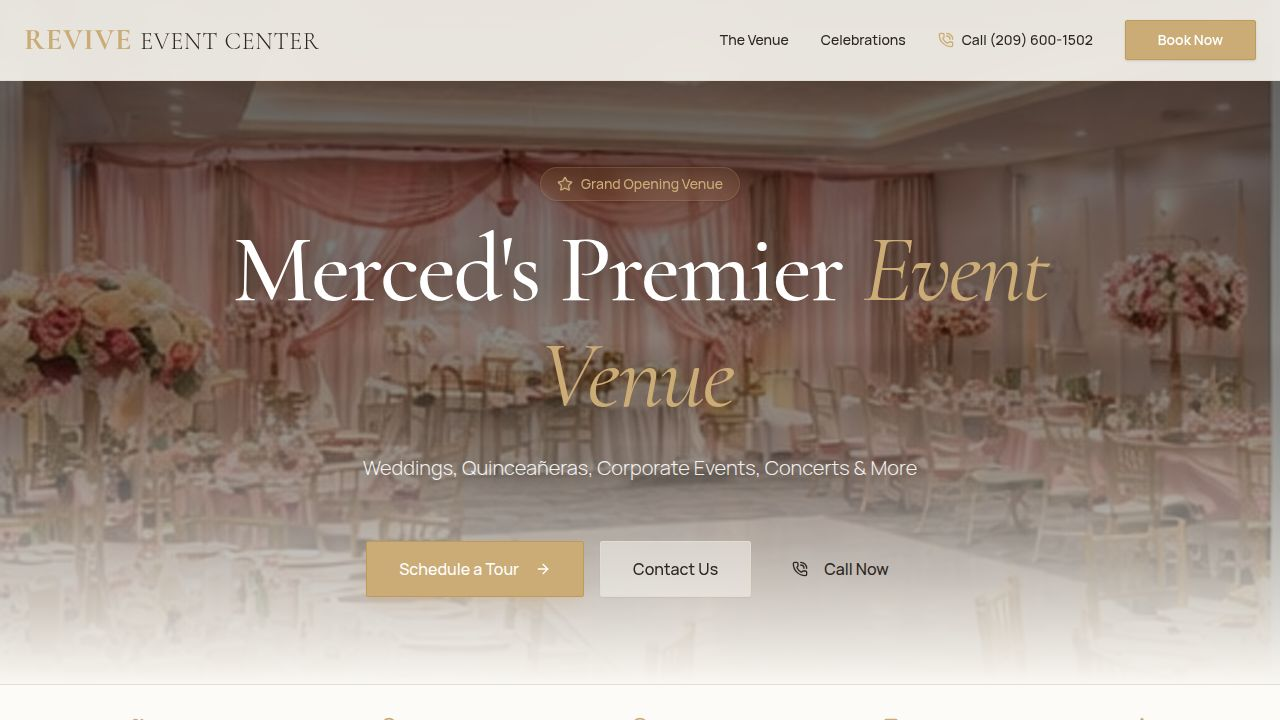
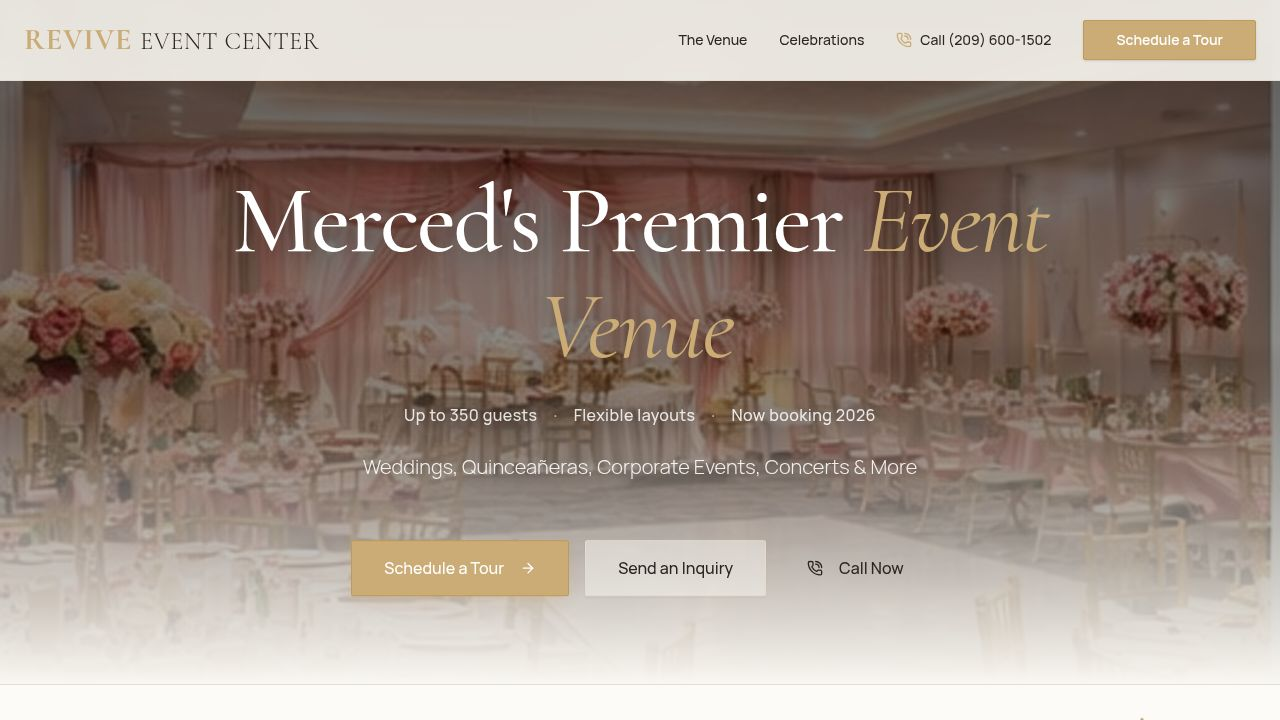
Conversion polish: standardize CTAs, add hero capacity line, booking reassurance
Task #9 (in response to a third-party site audit). All four bounded
changes implemented in artifacts/revive-event-center/src/pages/Home.tsx:

1. CTA standardization sweep — every booking-related button on the
   page now reads either "Schedule a Tour" (gold primary, opens
   venuesos.com/schedule-tour in a new tab) or "Send an Inquiry"
   (outline secondary, opens venuesos.com/inquiry in a new tab).
   Replaced: "Book Now" (header), "Book a Walkthrough" + "Explore
   Celebrations" (See the Scale section), "Inquire About Your Event"
   (Celebrations header), "Check Date Availability" (Now Booking
   2026), "Book a Tour" + "Start Your Inquiry" (booking card inner
   labels), "Inquire Now" (footer Quick Links), "Schedule Tour" +
   "Contact Us" (mobile sticky bar). Hero "Contact Us" → "Send an
   Inquiry" (was already pointing at the inquiry URL).

2. Hero capacity line — added a single line between the headline and
   the supporting tagline reading "Up to 350 guests · Flexible
   layouts · Now booking 2026" with gold-accented · separators
   (aria-hidden on the dots).

3. Booking section reassurance — added a centered gold-tinted line
   above the two booking cards reading "Takes 30 seconds. No
   commitment. Lock in your date before it's gone."

4. Trust strip copy — "All-Inclusive Packages Available" rephrased
   to active voice: "All-inclusive pricing — one number, no
   surprises." Same icon and slot.

Verification: typecheck clean, full e2e Playwright test passed all
[…]

diff --git a/artifacts/revive-event-center/src/pages/Home.tsx b/artifacts/revive-event-center/src/pages/Home.tsx
@@ -41,8 +41,8 @@ export default function Home() {
               <PhoneCall className="w-4 h-4 text-primary" /> {PHONE_DISPLAY}
             </a>
             <Button asChild size="lg" className="bg-primary text-primary-foreground hover:bg-primary/90 font-semibold shadow-sm">
-              <a href="#book" data-testid="link-nav-tour">
-                Book Now
+              <a href={VENUESOS_TOUR} target="_blank" rel="noopener noreferrer" data-testid="link-nav-tour">
+                Schedule a Tour
               </a>
             </Button>
           </nav>
@@ -68,6 +68,14 @@ export default function Home() {
                 Merced's Premier <span className="text-primary italic pr-2">Event Venue</span>
               </motion.h1>
               
+              <motion.div variants={fadeInUp} className="flex items-center justify-center gap-3 md:gap-4 text-sm md:text-base text-white/85 font-medium tracking-wide flex-wrap [text-shadow:0_1px_20px_rgba(0,0,0,0.5)]">
+                <span>Up to 350 guests</span>
+                <span className="text-primary" aria-hidden="true">·</span>
+                <span>Flexible layouts</span>
+                <span className="text-primary" aria-hidden="true">·</span>
+                <span>Now booking 2026</span>
+              </motion.div>
+
               <motion.p variants={fadeInUp} className="text-lg md:text-xl text-white/90 max-w-2xl mx-auto font-light leading-relaxed [text-shadow:0_1px_20px_rgba(0,0,0,0.5)]">
                 Weddings, Quinceañeras, Corporate Events, Concerts &amp; More
               </motion.p>
@@ -80,7 +88,7 @@ export default function Home() {
                 </Button>
                 <Button asChild variant="outline" size="lg" className="w-full sm:w-auto text-base h-14 px-8 border-border bg-background/50 backdrop-blur-sm hover:bg-background/80 hover:text-primary transition-all">
                   <a href={VENUESOS_INQUIRY} target="_blank" rel="noopener noreferrer">
-                    Contact Us
+                    Send an Inquiry
                   </a>
                 </Button>
                 <Button asChild variant="ghost" size="lg" className="w-full sm:w-auto text-base h-14 px-6 hover:bg-background/60 hover:text-primary transition-all">
@@ -103,7 +111,7 @@ export default function Home() {
                 { label: "Central Merced Location", icon: MapPin },
                 { label: "Tables & Chairs Included", icon: CheckCircle2 },
                 { label: "Kitchen & Bar Access", icon: GlassWater },
-                { label: "All-Inclusive Packages Available", icon: Star },
+                { label: "All-inclusive pricing — one number, no surprises", icon: Star },
               ].map(({ label, icon: Icon }) => (
                 <li key={label} className="flex flex-col items-center justify-center gap-2">
                   <Icon className="w-5 h-5 text-primary" />
@@ -180,12 +188,12 @@ export default function Home() {
               </p>
               <div className="flex flex-col sm:flex-row gap-4 pt-2">
                 <Button asChild size="lg" className="bg-primary text-primary-foreground hover:bg-primary/90 h-14 px-8 shadow-lg">
-                  <a href="#book">
-                    Book a Walkthrough <ArrowRight className="ml-2 w-4 h-4" />
+                  <a href={VENUESOS_TOUR} target="_blank" rel="noopener noreferrer">
+                    Schedule a Tour <ArrowRight className="ml-2 w-4 h-4" />
                   </a>
                 </Button>
                 <Button asChild variant="outline" size="lg" className="h-14 px-8 bg-background/10 border-white/40 text-white hover:bg-background/20 hover:text-white backdrop-blur-sm">
-                  <a href="#celebrations">Explore Celebrations</a>
+                  <a href={VENUESOS_INQUIRY} target="_blank" rel="noopener noreferrer">Send an Inquiry</a>
                 </Button>
               </div>
             </motion.div>
@@ -201,7 +209,7 @@ export default function Home() {
                 <p className="text-lg text-muted-foreground">From the most sacred vows to the wildest corporate galas, our space transforms to fit your vision.</p>
               </div>
               <Button asChild variant="outline" className="shrink-0 hidden md:flex">
-                <a href={VENUESOS_INQUIRY} target="_blank" rel="noopener noreferrer">Inquire About Your Event</a>
+                <a href={VENUESOS_INQUIRY} target="_blank" rel="noopener noreferrer">Send an Inquiry</a>
               </Button>
             </div>
 
@@ -280,8 +288,8 @@ export default function Home() {
                 </motion.p>
                 <motion.div variants={fadeInUp} className="flex flex-col sm:flex-row gap-4 pt-2">
                   <Button asChild size="lg" className="bg-primary text-primary-foreground hover:bg-primary/90 h-14 px-8 shadow-lg shadow-primary/20">
-                    <a href="#book">
-                      Check Date Availability <ArrowRight className="ml-2 w-4 h-4" />
+                    <a href={VENUESOS_TOUR} target="_blank" rel="noopener noreferrer">
+                      Schedule a Tour <ArrowRight className="ml-2 w-4 h-4" />
                     </a>
                   </Button>
                   <Button asChild variant="outline" size="lg" className="h-14 px-8">
@@ -349,6 +357,9 @@ export default function Home() {
             <div className="text-center max-w-3xl mx-auto mb-12">
               <h2 className="text-4xl md:text-5xl font-serif font-medium mb-6">Ready to Revive Your Event?</h2>
               <p className="text-lg text-muted-foreground">Book a private tour or send a quick inquiry — pick the path that fits.</p>
+              <p className="mt-4 text-sm md:text-[15px] font-medium text-primary">
+                Takes 30 seconds. No commitment. Lock in your date before it's gone.
+              </p>
             </div>
 
             <div className="grid md:grid-cols-2 gap-5 md:gap-6">
@@ -368,7 +379,7 @@ export default function Home() {
                   Pick a time that works for you and walk the ballroom in person — we'll show you the layouts, the lighting, and the kitchen.
                 </p>
                 <div className="mt-auto inline-flex items-center gap-2 text-primary font-semibold">
-                  Book a Tour <ArrowRight className="w-4 h-4 transition-transform group-hover:translate-x-1" />
+                  Schedule a Tour <ArrowRight className="w-4 h-4 transition-transform group-hover:translate-x-1" />
                 </div>
               </a>
 
@@ -388,7 +399,7 @@ export default function Home() {
                   Tell us your date, guest count, and event type — we'll come back with available dates and pricing.
                 </p>
                 <div className="mt-auto inline-flex items-center gap-2 text-primary font-semibold">
-                  Start Your Inquiry <ArrowRight className="w-4 h-4 transition-transform group-hover:translate-x-1" />
+                  Send an Inquiry <ArrowRight className="w-4 h-4 transition-transform group-hover:translate-x-1" />
                 </div>
               </a>
             </div>
@@ -453,7 +464,7 @@ export default function Home() {
               <h4 className="font-medium text-lg">Quick Links</h4>
               <div className="space-y-2 flex flex-col">
                 <a href={VENUESOS_TOUR} target="_blank" rel="noopener noreferrer" className="text-muted-foreground hover:text-primary transition-colors">Schedule a Tour</a>
-                <a href={VENUESOS_INQUIRY} target="_blank" rel="noopener noreferrer" className="text-muted-foreground hover:text-primary transition-colors">Inquire Now</a>
+                <a href={VENUESOS_INQUIRY} target="_blank" rel="noopener noreferrer" className="text-muted-foreground hover:text-primary transition-colors">Send an Inquiry</a>
                 <a href="#" className="text-muted-foreground hover:text-primary transition-colors">Back to Top</a>
               </div>
             </div>
@@ -474,11 +485,11 @@ export default function Home() {
         </a>
         <a href={VENUESOS_TOUR} target="_blank" rel="noopener noreferrer" className="flex-1 flex flex-col items-center justify-center py-3 px-2 text-xs font-medium bg-primary text-primary-foreground hover:bg-primary/90 transition-colors border-r border-primary/20">
           <Clock className="w-5 h-5 mb-1" />
-          Schedule Tour
+          Schedule a Tour
         </a>
         <a href={VENUESOS_INQUIRY} target="_blank" rel="noopener noreferrer" className="flex-1 flex flex-col items-center justify-center py-3 px-2 text-xs font-medium text-foreground hover:bg-muted transition-colors">
           <CalendarHeart className="w-5 h-5 mb-1" />
-          Contact Us
+          Send an Inquiry
         </a>
       </div>
     </div>
